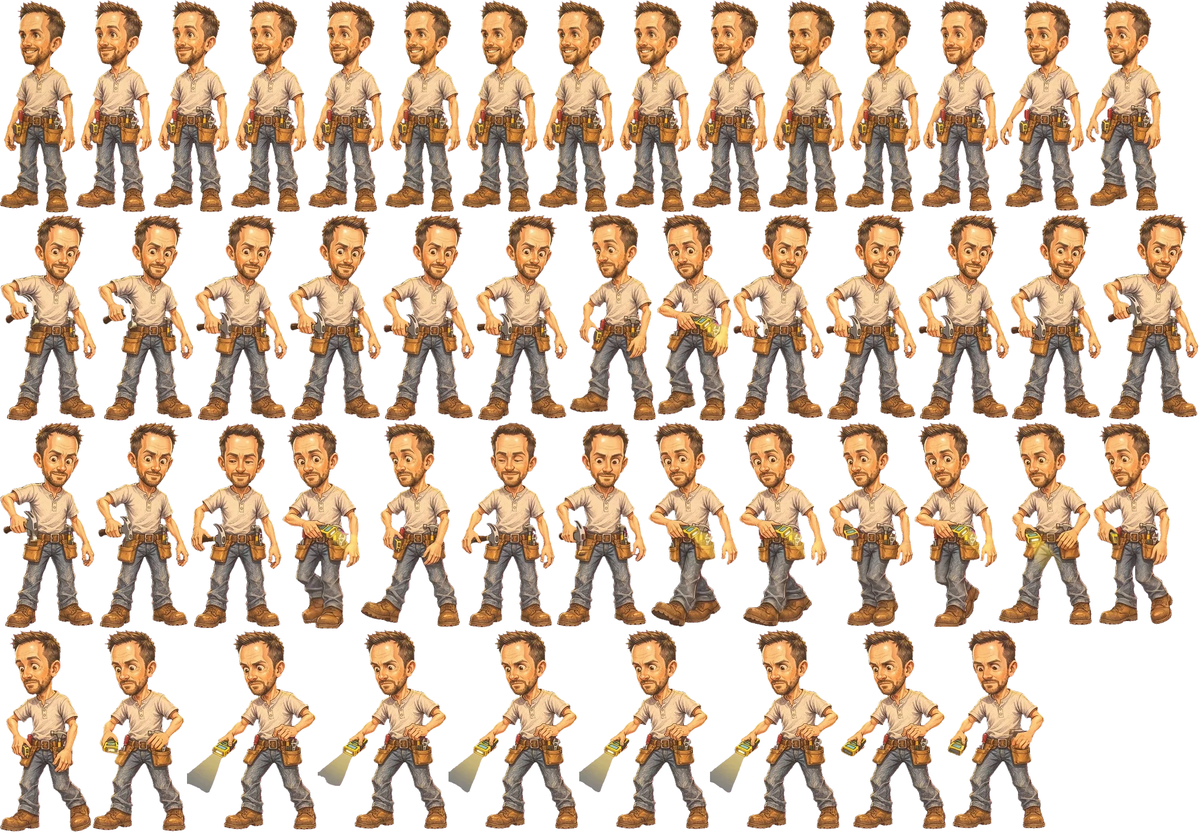
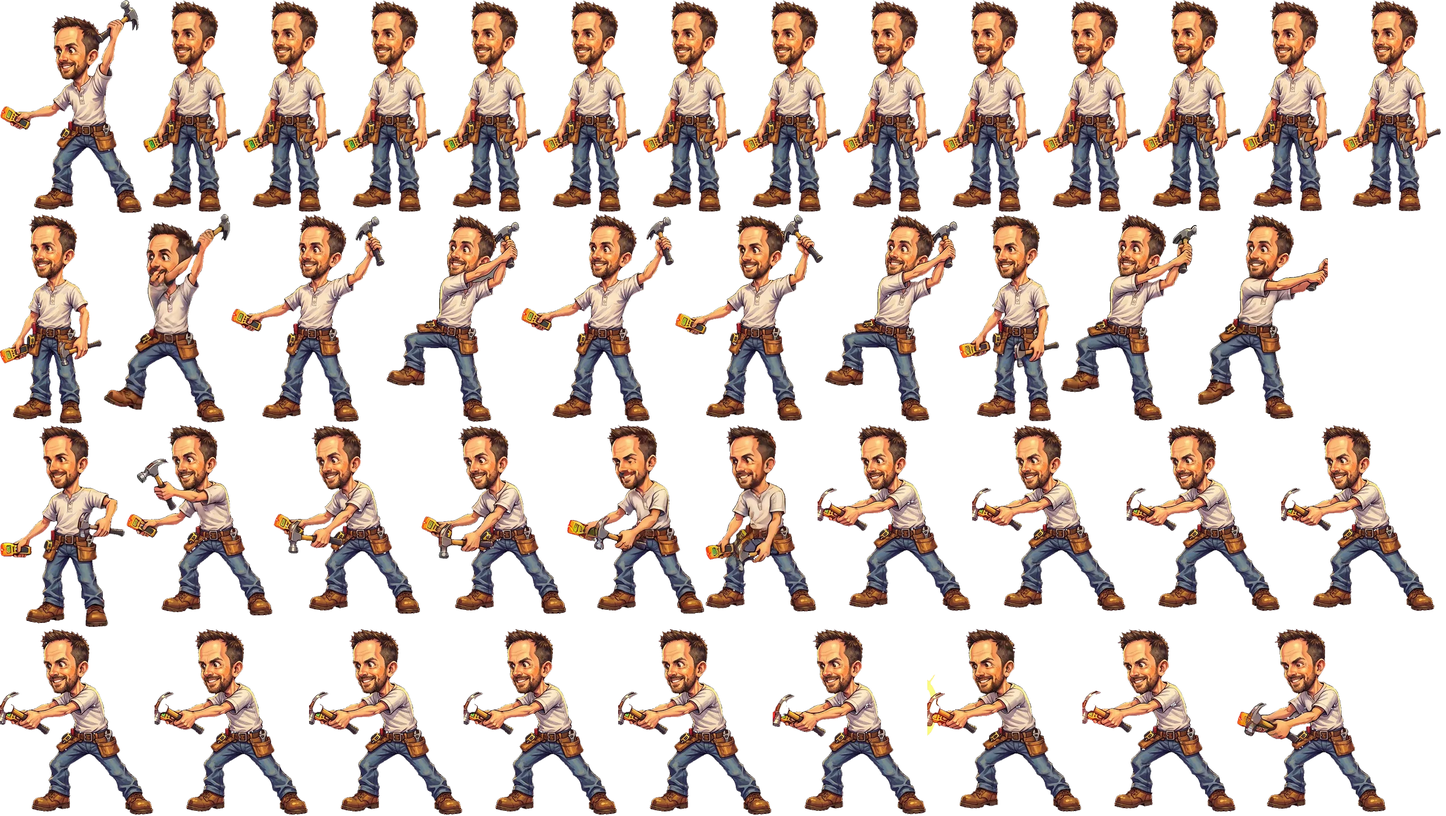
art-factory: single clip justin-poc-2-regate5 (outcome success)

diff --git a/data/clips/pf-justin-bb-basic.js b/data/clips/pf-justin-bb-basic.js
@@ -1,5 +1,5 @@
 'use strict';
 // data/clips/pf-justin-bb-basic.js: GENERATED by tools/clip-bake/bake_clip.py; do not hand-edit. Read by engine/clips.js.
-// Source frames 0 to 147 of the video, every 3, impact at video frame 60, played at 1.0x.
-// Baked from: art-factory draft art-factory/staging/justin/battle_move_draft_justin-bb-basic/raw_alpha.webm {"first": 0, "last": 148, "hit": 60}
-bclipDefine("pf_justin_bb_basic",{"owner":"justin","src":"art/clips/pf-justin-bb-basic.webp?v=clip0","k":4,"w":84,"h":95,"n":50,"rects":[[0,0,132,374,102,6],[1353,0,132,373,102,7],[1487,0,132,373,102,7],[678,0,133,373,102,7],[813,0,133,373,102,7],[948,0,133,373,102,7],[1083,0,133,373,102,7],[1909,0,134,371,94,9],[1001,376,153,365,73,15],[635,743,175,361,57,18],[0,1108,161,356,75,21],[1923,743,141,357,82,19],[1457,743,149,360,78,15],[1140,743,158,360,86,18],[1300,743,155,360,89,19],[1608,743,146,360,92,20],[497,743,136,363,93,17],[1156,376,131,365,93,15],[1756,743,165,357,65,21],[163,1108,164,355,69,23],[329,1108,228,352,6,25],[559,1108,228,351,6,26],[789,1108,228,351,6,26],[1019,1108,228,351,6,26],[1249,1108,228,351,6,26],[1479,1108,185,351,49,26],[1666,1108,173,350,62,27],[978,743,160,360,81,19],[673,376,162,365,83,15],[343,376,163,365,82,15],[172,376,169,365,76,15],[0,376,170,365,75,15],[837,376,162,365,83,15],[508,376,163,365,82,15],[0,743,167,363,78,17],[1940,376,169,363,76,17],[169,743,164,363,81,17],[1778,376,160,364,85,16],[1289,376,161,364,84,16],[1452,376,161,364,84,16],[1615,376,161,364,84,16],[335,743,160,363,82,16],[812,743,164,361,78,17],[1759,0,148,371,89,9],[1621,0,136,372,100,8],[134,0,134,373,101,7],[270,0,134,373,101,7],[406,0,134,373,101,7],[542,0,134,373,101,7],[1218,0,133,373,102,7]],"ms":[0,100,200,300,400,500,600,700,800,900,1000,1100,1200,1300,1400,1500,1600,1700,1800,1900,2000,2100,2200,2300,2400,2500,2600,2700,2800,2900,3000,3100,3200,3300,3400,3500,3600,3700,3800,3900,4000,4100,4200,4300,4400,4500,4600,4700,4800,4900],"dur":5000,"kind":"strike","impact":20,"reach":[40.5,23.9],"feet":[[-1.6,30.0],[-1.6,30.0],[-1.6,30.0],[-1.6,30.0],[-1.6,30.0],[-1.6,30.0],[-1.6,30.0],[-1.5,29.8],[-4.6,37.5],[-6.1,43.5],[-3.2,39.8],[-3.0,31.8],[-3.8,21.2],[-4.6,29.0],[-4.8,26.2],[-1.9,17.0],[-1.2,18.2],[-3.8,29.8],[-5.1,41.0],[-4.5,40.8],[-4.1,40.5],[-4.1,40.5],[-4.1,40.5],[-4.1,40.5],[-4.1,40.5],[-4.1,40.5],[-3.8,40.8],[-1.9,39.0],[-1.0,38.8],[-1.0,38.8],[-1.0,38.8],[-1.0,38.8],[-1.0,38.8],[-1.0,38.8],[-1.0,38.8],[-1.0,38.8],[-0.9,38.5],[-0.9,38.5],[-0.9,38.5],[-1.0,38.8],[-1.0,38.8],[-1.2,37.8],[-1.1,36.5],[-1.5,32.2],[-1.6,30.5],[-1.8,30.2],[-1.8,30.2],[-1.6,30.0],[-1.6,30.0],[-1.6,30.0]]});
+// Source frames 0 to 126 of the video, every 3, impact at video frame 69, played at 1.0x.
+// Baked from: art-factory draft art-factory/staging/justin/battle_move_draft_justin-bb-basic/raw_alpha.webm {"first": 0, "last": 128, "hit": 69}
+bclipDefine("pf_justin_bb_basic",{"owner":"justin","src":"art/clips/pf-justin-bb-basic.webp?v=justinpoc2regate5","k":4,"w":86,"h":96,"n":43,"rects":[[251,0,174,373,85,11],[427,0,174,373,85,11],[603,0,174,373,85,11],[779,0,174,373,85,11],[955,0,174,373,85,11],[1131,0,174,373,85,11],[1307,0,174,373,85,11],[2011,0,174,372,85,12],[0,377,180,369,80,15],[0,748,220,357,57,27],[1188,377,261,365,48,18],[407,377,271,366,48,16],[917,377,269,365,46,17],[0,0,249,375,23,7],[222,748,257,336,15,46],[481,748,258,333,14,49],[741,748,255,333,17,49],[1242,748,195,329,79,53],[2108,377,229,361,108,21],[1867,377,239,364,98,18],[1451,377,235,365,92,17],[680,377,235,366,92,16],[182,377,223,367,63,15],[1632,1107,271,323,7,60],[1905,1107,270,323,7,58],[1439,748,270,328,7,54],[1711,748,270,328,7,54],[1983,748,270,328,7,54],[2255,748,270,328,7,54],[0,1107,270,328,7,54],[272,1107,270,328,7,54],[544,1107,270,328,7,54],[816,1107,270,328,7,54],[1088,1107,270,328,7,54],[1360,1107,270,327,7,55],[2177,1107,263,323,12,59],[998,748,242,333,21,49],[1688,377,177,365,66,19],[2187,0,174,372,83,12],[1483,0,174,373,85,11],[1659,0,174,373,85,11],[1835,0,174,373,85,11],[2363,0,174,372,85,12]],"ms":[0,100,200,300,400,500,600,700,800,900,1000,1100,1200,1300,1400,1500,1600,1700,1800,1900,2000,2100,2200,2300,2400,2500,2600,2700,2800,2900,3000,3100,3200,3300,3400,3500,3600,3700,3800,3900,4000,4100,4200],"dur":4300,"kind":"strike","impact":23,"reach":[41.2,47.2],"feet":[[-2.4,30.0],[-2.4,30.0],[-2.4,30.0],[-2.4,30.0],[-2.4,30.0],[-2.4,30.0],[-2.4,30.0],[-2.4,30.0],[-2.2,30.2],[0.6,36.0],[3.6,42.0],[3.8,42.2],[3.6,42.5],[1.2,47.2],[0.6,48.5],[0.5,48.8],[0.5,48.8],[0.9,48.5],[5.1,41.5],[19.8,12.2],[19.8,12.2],[19.8,12.2],[5.1,41.5],[-0.4,53.5],[-0.8,53.2],[-0.9,53.5],[-0.8,53.2],[-0.8,53.2],[-0.8,53.2],[-0.8,53.2],[-0.8,53.2],[-0.8,53.2],[-0.8,53.2],[-0.8,53.2],[-0.8,53.2],[-0.8,52.2],[-1.1,47.0],[-2.4,32.5],[-2.5,30.2],[-2.4,30.0],[-2.4,30.0],[-2.4,30.0],[-2.4,30.0]]});

diff --git a/index.html b/index.html
@@ -1559,7 +1559,7 @@ html.landscape:not(.tablet):not(.duo) #battle.v2 .b2-x{font-size:17px}html.lands
 <script src="data/clips/pf-tnb-cer-cap.js?v=pass1review1"></script>
 <script src="data/clips/pf-amy-fq-basic.js?v=pass1review1"></script>
 <script src="data/clips/pf-amy-fq-s1.js?v=pass1review1"></script>
-<script src="data/clips/pf-justin-bb-basic.js?v=pass1review1"></script>
+<script src="data/clips/pf-justin-bb-basic.js?v=justinpoc2regate5"></script>
 <script src="data/clips/pf-deedee-nf-cap.js?v=pass1review1"></script>
 <script src="data/tombo-frames.js"></script>
 <script src="engine/tombo-frames.js"></script>
